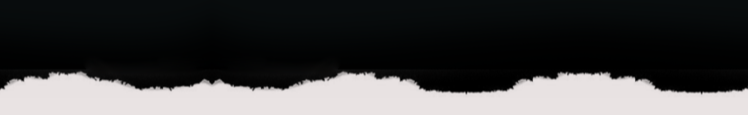
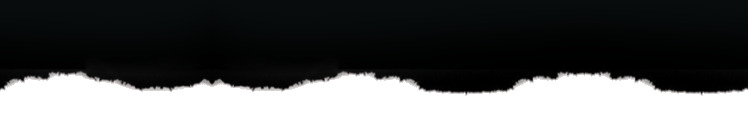
opening modify

Changed region(s): [[0.0, 0.6522, 1.0, 1.0]]

diff --git a/src/App.css b/src/App.css
@@ -77,7 +77,7 @@ body:not(.opening-active) main {
     left: 0;
     width: 100%;
     height: 100%;
-    background: linear-gradient(135deg, #f5f5f5 0%, #ffffff 100%);
+    background: #191919;
     display: flex;
     align-items: center;
     justify-content: center;
@@ -93,8 +93,61 @@ body:not(.opening-active) main {
 }
 
 .opening-content {
-    text-align: center;
+    position: relative;
+    display: flex;
+    align-items: center;
+    justify-content: center;
+    width: 100%;
+    height: 100%;
     animation: fadeInUp 1.2s ease-out;
+    overflow: hidden;
+}
+
+.opening-content img {
+    position: absolute;
+    width: 260px;
+    max-width: 260px;
+    height: auto;
+    left: 50%;
+    top: 50%;
+    transform: translate(-50%, -50%);
+}
+
+.opening-img-1 {
+    z-index: 1;
+}
+
+.opening-img-3 {
+    z-index: 2;
+    width: 250px !important;
+    max-width: 250px !important;
+    animation: openingImg2Move 3s ease-out forwards;
+}
+
+.opening-img-2 {
+    z-index: 3;
+}
+
+@keyframes openingImg2Move {
+    0% {
+        transform: translate(-50%, -50%) rotate(7deg);
+    }
+
+    20% {
+        transform: translate(-50%, calc(-50% - 20px)) rotate(0deg);
+    }
+
+    40% {
+        transform: translate(-50%, calc(-50% - 30px)) rotate(7deg);
+    }
+
+    60% {
+        transform: translate(-50%, calc(-50% - 50px)) rotate(0deg);
+    }
+
+    100% {
+        transform: translate(-50%, calc(-50% - 50px)) rotate(0deg);
+    }
 }
 
 .opening-text {
@@ -1107,6 +1160,22 @@ main {
     text-align: center;
     position: relative;
     z-index: 1;
+}
+
+.section-share::before {
+    content: '';
+    position: absolute;
+    top: -110px;
+    left: 0;
+    width: 100%;
+    height: 150px;
+    background-image: url('/images/footer-pattern.png');
+    background-repeat: no-repeat;
+    background-size: contain;
+    background-position: top center;
+    z-index: 1;
+    pointer-events: none;
+    transform: rotate(180deg);
 }
 
 .section.section-share {

diff --git a/src/components/OpeningAnimation.jsx b/src/components/OpeningAnimation.jsx
@@ -21,17 +21,18 @@ export default function OpeningAnimation({ onClose }) {
     }, 800)
   }
 
-  if (!isVisible) return null
-
   return (
     <div className={`opening-overlay ${!isVisible ? 'hide' : ''}`} onClick={handleClick}>
       <div className="opening-content">
-        <div className="opening-text">
+        <img src="/images/opening_1.png" alt="opening" className="opening-img-1" />
+        <img src="/images/opening_3.png" alt="opening" className="opening-img-3" />
+        <img src="/images/opening_2.png" alt="opening" className="opening-img-2" />
+        {/* <div className="opening-text">
           <h1 className="opening-title">Kim Hyun Dong</h1>
           <div className="opening-heart">♥</div>
           <h1 className="opening-title">Lee Kyung Seo</h1>
         </div>
-        <p className="opening-subtitle">결혼합니다</p>
+        <p className="opening-subtitle">결혼합니다</p> */}
       </div>
     </div>
   )

diff --git a/src/components/ShareSection.jsx b/src/components/ShareSection.jsx
@@ -34,18 +34,20 @@ export default function ShareSection() {
 
   return (
     <>
-      <div className="footer-pattern-wrapper">
-        <img
-          src="/images/footer-pattern.png"
-          alt="footer pattern"
-          className="footer-pattern-image"
-        />
-      </div>
+
       <section className="section section-share">
+        {/* <div className="footer-pattern-wrapper">
+          <img
+            src="/images/footer-pattern.png"
+            alt="footer pattern"
+            className="footer-pattern-image"
+          />
+        </div> */}
         <div
           ref={footerRef}
           className={`footer-content-wrapper ${isVisible ? 'footer-visible' : ''}`}
         >
+
           <div className="cast-section cast">
             <h2 className="cast-title">CAST</h2>
             <div className="cast-list">
